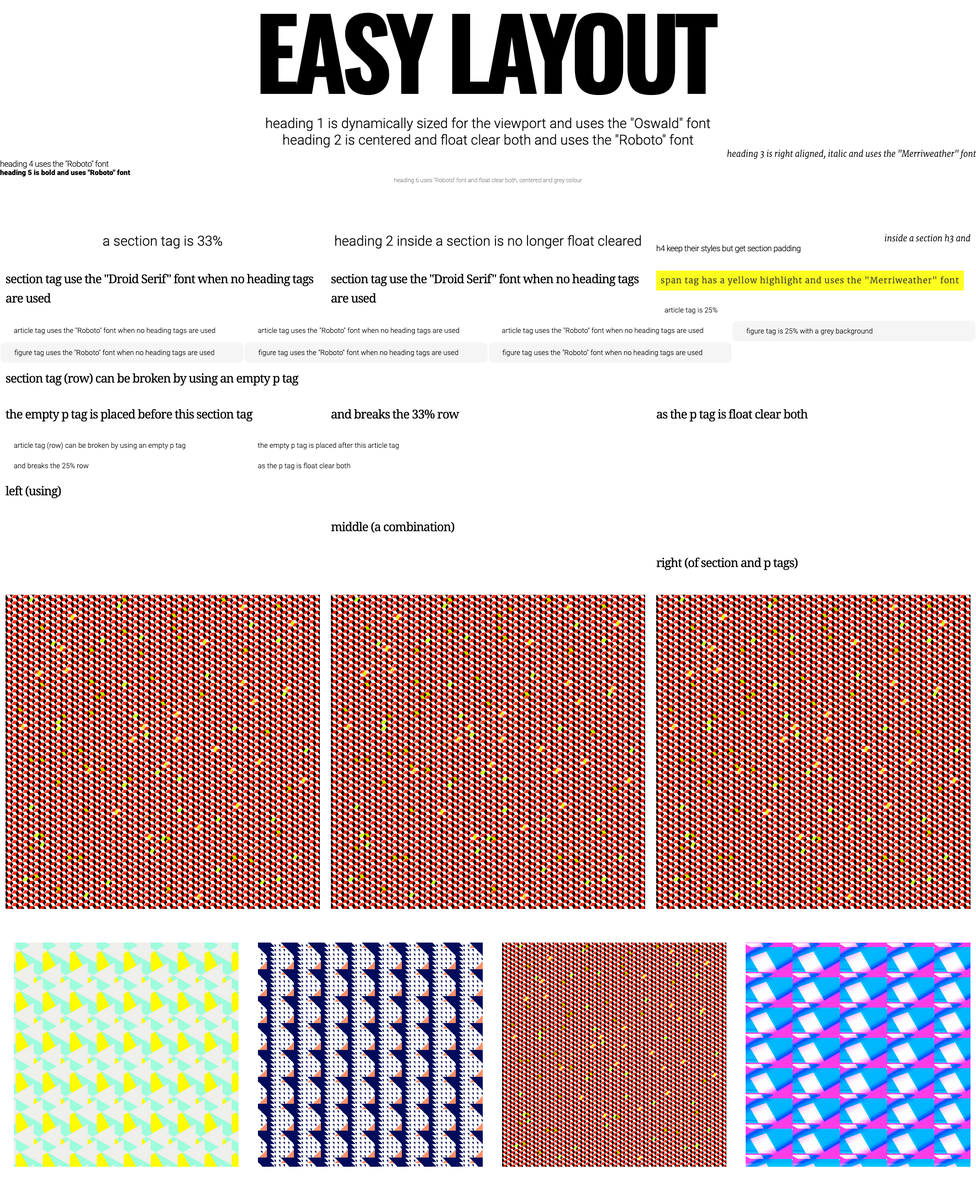
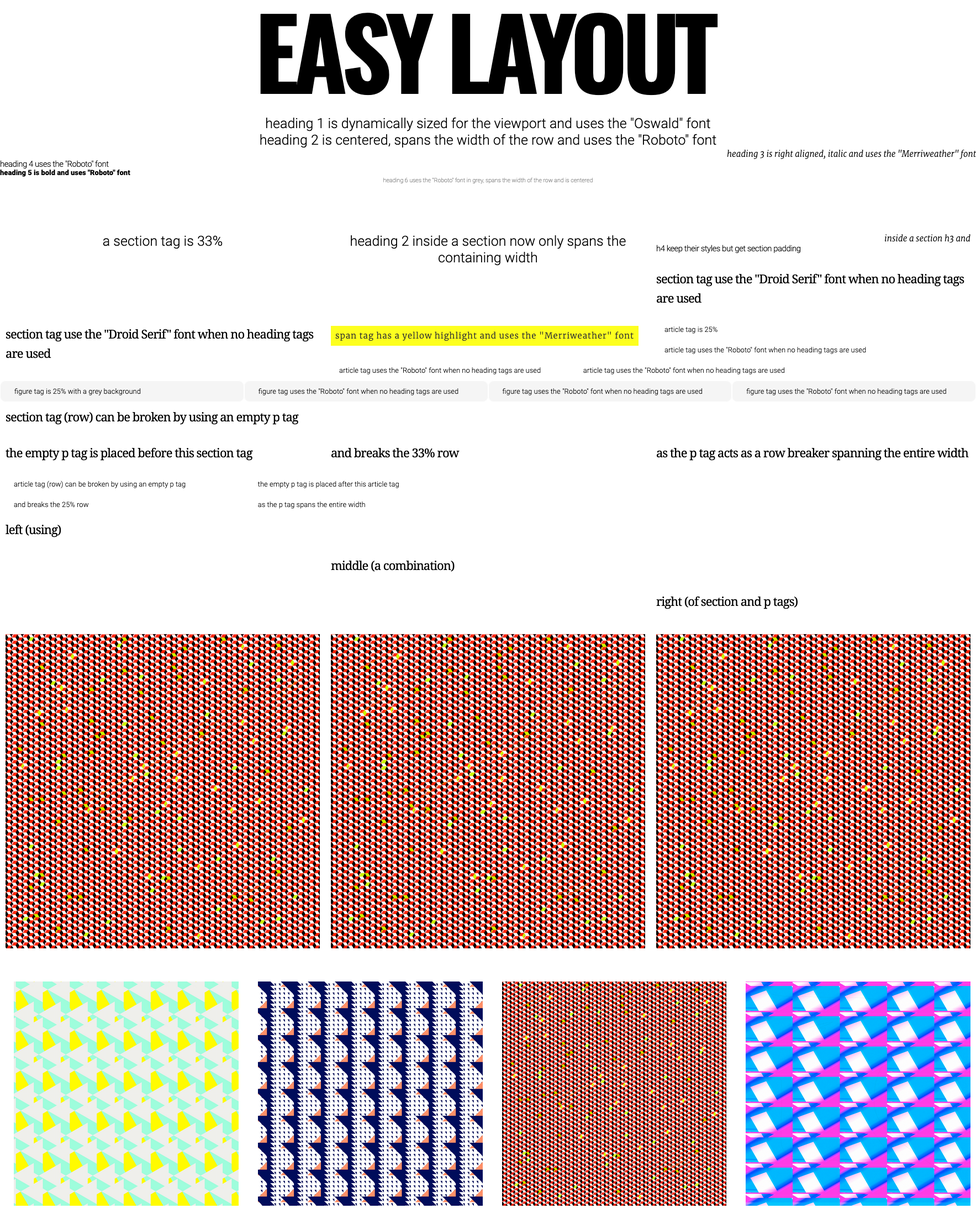
update readme and preview image + reword instructions

diff --git a/index.html b/index.html
@@ -13,7 +13,7 @@
 <h1>Easy Layout</h1>
 <h2>heading 1 is dynamically sized for the viewport and uses the "Oswald" font</h2>
 
-<h2>heading 2 is centered and float clear both and uses the "Roboto" font</h2>
+<h2>heading 2 is centered, spans the width of the row and uses the "Roboto" font</h2>
 
 <h3>heading 3 is right aligned, italic and uses the "Merriweather" font</h3>
 
@@ -21,7 +21,7 @@
 
 <h5>heading 5 is bold and uses "Roboto" font</h5>
 
-<h6>heading 6 uses "Roboto" font and float clear both, centered and grey colour</h6>
+<h6>heading 6 uses the "Roboto" font in grey, spans the width of the row and is centered</h6>
 
 
 <section>
@@ -29,7 +29,7 @@
 </section>
 
 <section>
-<h2>heading 2 inside a section is no longer float cleared</h2>
+<h2>heading 2 inside a section now only spans the containing width</h2>
 </section>
 
 <section>
@@ -55,13 +55,13 @@
 <p></p>
 <section>the empty p tag is placed before this section tag</section>
 <section>and breaks the 33% row</section>
-<section>as the p tag is float clear both</section>
+<section>as the p tag acts as a row breaker spanning the entire width</section>
 
 <article>article tag (row) can be broken by using an empty p tag</article>
 <article>the empty p tag is placed after this article tag</article>
 <p></p>
 <article>and breaks the 25% row</article>
-<article>as the p tag is float clear both</article>
+<article>as the p tag spans the entire width</article>
 
 <p></p>
 

diff --git a/README.md b/README.md
@@ -8,9 +8,9 @@
 
 ![preview](preview.png)
 
-[LIVE SITE INSTRUCTIONS]()
+[LIVE SITE INSTRUCTIONS](https://easycss.github.io/easylayout/)
 
-[LIVE SITE EXAMPLE PAGE]()
+[LIVE SITE EXAMPLE PAGE](https://easycss.github.io/easylayout/example.html)
 
 
 ### TODO
